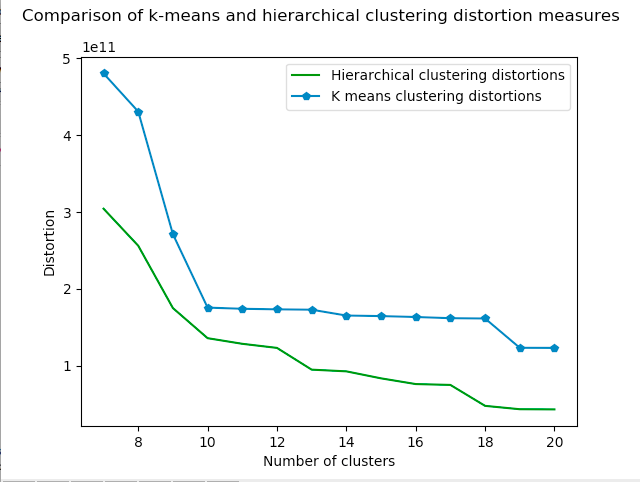
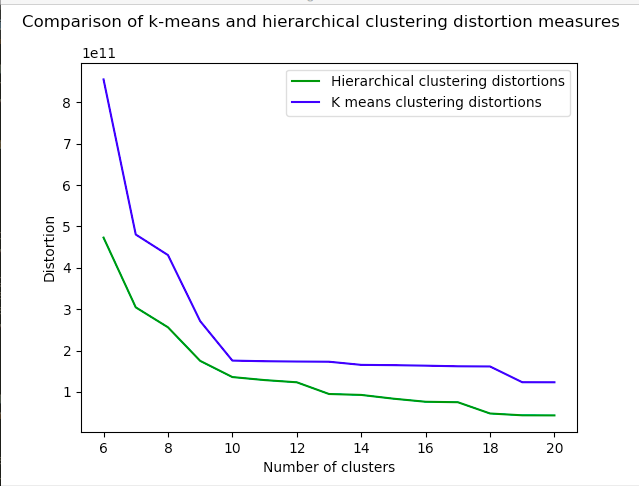
Fix clustering alg comparison graphs

diff --git a/week_2_app.py b/week_2_app.py
@@ -1,0 +1,297 @@
+'''
+APPLICATION 3: Efficiency of hierarchical clustering and k-means clustering
+'''
+
+import urllib2
+import random
+import time
+import math
+import matplotlib.pyplot as plt
+import week_2_project as provided
+import clusterclass as alg_cluster
+
+DIRECTORY = "http://commondatastorage.googleapis.com/codeskulptor-assets/"
+DATA_3108_URL = DIRECTORY + "data_clustering/unifiedCancerData_3108.csv"
+DATA_896_URL = DIRECTORY + "data_clustering/unifiedCancerData_896.csv"
+DATA_290_URL = DIRECTORY + "data_clustering/unifiedCancerData_290.csv"
+DATA_111_URL = DIRECTORY + "data_clustering/unifiedCancerData_111.csv"
+
+def load_data_table(data_url):
+    """
+    Import a table of county-based cancer risk data
+    from a csv format file
+    """
+    data_file = urllib2.urlopen(data_url)
+    data = data_file.read()
+    data_lines = data.split('\n')
+    data_tokens = [line.split(',') for line in data_lines]
+    return [[tokens[0], float(tokens[1]), float(tokens[2]), int(tokens[3]), float(tokens[4])] 
+            for tokens in data_tokens]
+
+def gen_random_clusters(num_clusters):
+  cluster_list = []
+
+  for dummy_idx in range(0, num_clusters):
+    random_zip = random.randrange(10000, 99999)
+    random_pop = random.randrange(0, 100000)
+    random_issue = random.randrange(0, 130)
+    random_x_dir = random.choice([-1, 1])
+    random_y_dir = random.choice([-1, 1])
+    random_x = random.random() * random_x_dir
+    random_y = random.random() * random_y_dir
+    new_cluster = alg_cluster.Cluster(set([random_zip]), random_x, random_y, random_pop, random_issue)
+    cluster_list.append(new_cluster)
+
+  return cluster_list
+
+def get_slow_cp_run_time(cluster_list):
+  t0 = time.time()
+  provided.slow_closest_pair(cluster_list)
+  t1 = time.time()
+  return t1 - t0
+
+
+def get_fast_cp_run_time(cluster_list):
+  t0 = time.time()
+  provided.fast_closest_pair(cluster_list)
+  t1 = time.time()
+  return t1 - t0
+
+def plot_cp_running_times():
+
+  number_clusters = []
+  slow_run_times = []
+  fast_run_times = []
+  for i in range(2, 200, 1):
+    number_clusters.append(i)
+    test_clusters = gen_random_clusters(i)
+    slow_run_times.append(get_slow_cp_run_time(test_clusters))
+    fast_run_times.append(get_fast_cp_run_time(test_clusters))
+
+  print slow_run_times
+  print fast_run_times
+  plt.plot(number_clusters, slow_run_times, '-r', label = "Slow closest pair run time")
+  plt.plot(number_clusters, fast_run_times, '-b', label = "Fast closest pair run time")
+  plt.xlabel('Number of clusters')
+  plt.ylabel('Running time (seconds)')
+  plt.suptitle('Comparing slow and fast closest pair run times')
+  plt.legend(loc = 'upper right')
+  plt.show()
+
+
+
+def compute_distortion(cluster_list, data_url):
+
+  data_table = load_data_table(data_url)
+  distortion = 0
+
+  for cluster in cluster_list:
+    distortion += cluster.cluster_error(data_table)
+
+  return distortion
+
+def initialize_cluster_list(data_url):
+  data_table = load_data_table(data_url)
+
+  singleton_list = []
+  for line in data_table:
+    singleton_list.append(alg_cluster.Cluster(set([line[0]]), line[1], line[2], line[3], line[4]))
+
+  return singleton_list
+
+def plot_clustering_algs_distortion(data_url):
+
+  number_clusters = []
+  hierarchical_distortions = []
+  k_means_distortions = []
+
+  hierarchical_cluster_list = initialize_cluster_list(data_url)
+
+  for cluster_number in range(20, 5, -1):
+    number_clusters.append(cluster_number)
+    hierarchical_cluster_list = provided.hierarchical_clustering(hierarchical_cluster_list, cluster_number)
+    hierarchical_distortion = compute_distortion(hierarchical_cluster_list, data_url)
+    hierarchical_distortions.append(hierarchical_distortion)
+
+    k_means_cluster_list = initialize_cluster_list(data_url)
+    k_means_cluster_list = provided.kmeans_clustering(k_means_cluster_list, cluster_number, 5)
+    k_means_distortion = compute_distortion(k_means_cluster_list, data_url)
+    k_means_distortions.append(k_means_distortion)
+
+  plt.plot(number_clusters, hierarchical_distortions, '-g', label = "Hierarchical clustering distortions")
+  plt.plot(number_clusters, k_means_distortions, '-b', label = "K means clustering distortions")
+  plt.xlabel('Number of clusters')
+  plt.ylabel('Distortion')
+  plt.suptitle('Comparison of k-means and hierarchical clustering distortion measures')
+  plt.legend(loc = 'upper right')
+  plt.show()
+
+
+
+
+
+'''
+QUESTION 1:
+
+Write a function gen_random_clusters(num_clusters) that creates a list of 
+clusters where each cluster in this list corresponds to one randomly generated point in the
+square with corners (+/- 1, +/- 1). Use this function and your favorite Python timing code to
+compute the running times of the functions slow_closest_pair and fast_closest_pair for lists 
+of clusters of size 2 to 200
+
+Plot the result as two curves combined into a single plot.
+x-axis: number of initial clusters
+y-axis: running time of function in seconds
+
+
+'''
+#uncomment below to plot cp running time comparison
+#plot_cp_running_times()
+
+
+'''
+QUESTION 2:
+
+Use alg_project3_viz to create an image of the 15 clusters generated by applying hierarchical
+clustering to the 3108 cancer risk data set. You may submit an image with the 3108 counties
+colored by clusters or an enhanced visualization with the original counties colored by cluster
+and linked to the center of their corresponding clusters by lines.
+'''
+
+'''
+QUESTION 3:
+
+Use alg_project3_viz to create an image of the 15 clusters generated by applying k means
+clustering to the 3108 cancer risk data set using 5 iterations. You may submit an image with the 3108 counties
+colored by clusters or an enhanced visualization with the original counties colored by cluster
+and linked to the center of their corresponding clusters by lines.
+'''
+
+'''
+QUESTION 4:
+Which clustering method is faster when the number of output clusters is either a small fixed number
+or a small fraction of the number of input clusters? Provide a short explanation in terms of the asymptotic 
+running times of both methods. 
+
+K-means clustering is much faster when the number of clusters is a small fraction of the number
+of input clusters. The running time here should be O(k * n) where n is the cluster
+list length, and which if k is much smaller than n, should reduce to O(n).
+This is because for k-means clustering, as long as the number of iterations stays small, the
+number of distance comparisons between clusters is much lower since the centers are predetermined. 
+
+Hierarchical clustering, on the other hand performs fast closest pair a number of times equal to the initial 
+size of the input list minus the desired number of output clusters, which results in O((n - k)n log n),
+which will be considerably higher than O(n).
+'''
+
+'''
+QUESTION 5:
+
+Use alg_project3_viz to create an image of the 9 clusters generated by applying
+hierarchical clustering to the 111 county cancer risk data set.
+'''
+
+'''
+QUESTION 6:
+
+Use alg_project3_viz to create an image of the 9 clusters generated by applying
+5 iterations of k-means clustering to the 111 county cancer risk data set.
+
+'''
+
+'''
+QUESTION 7:
+
+Write a function compute_distortion(cluster_list) that takes a list of clusters and uses cluster_error
+to compute its distortion. Then, use compute_distortion to compute the distortions of the two 
+clusterings in questions 5 and 6.
+
+'''
+
+#Uncomment below to see the answer to question 7.
+
+#initialize cluster list
+
+
+
+#Run tests provided by instructor
+#data_url = DATA_290_URL
+#cluster_list = initialize_cluster_list(data_url)
+#hierarchical_cluster_list = provided.hierarchical_clustering(cluster_list, 16)
+#print 'error for hierarchical', compute_distortion(hierarchical_cluster_list, data_url)
+#cluster_list = initialize_cluster_list(data_url)
+#k_means_cluster_list = provided.kmeans_clustering(cluster_list, 16, 5)
+#print 'error for k means', compute_distortion(k_means_cluster_list, data_url)
+
+#Get values required for problem: 9 clusters for 111 county data set, 5 iterations for kmeans
+
+#data_url = DATA_111_URL
+#cluster_list = initialize_cluster_list(data_url)
+#hierarchical_cluster_list = provided.hierarchical_clustering(cluster_list, 9)
+#print 'error for hierarchical', compute_distortion(hierarchical_cluster_list, data_url)
+#cluster_list = initialize_cluster_list(data_url)
+#k_means_cluster_list = provided.kmeans_clustering(cluster_list, 9, 5)
+#print 'error for k means', compute_distortion(k_means_cluster_list, data_url)
+
+#***********ANSWER**************
+#Error for hierarchical: 1.7516E11
+#Error for kmeans: 2.7125E11
+
+'''
+QUESTION 8:
+Examine the clusterings generated in questions 5 and 6, focusing on west coast.
+
+Describe the difference between the shapes produced by these two methods. What caused
+one method to produce a clustering with much higher distortion?
+
+ANSWER: K-means clustering will result in a bias since clusters are initialized in the most populated
+cities. Three of these cities happen to be in California and are all relatively close to each other.
+Because we initialized very few clusters to distribute, many counties will end up without a cluster center
+anywhere near them due to this bias, resulting in high error.
+
+Hierarchical clustering doesn't have this bias, since with every cluster merge, all possible distances
+are tested to find the closest pair, regardless of population.
+'''
+
+'''
+QUESTION 9:
+Based on your answer to Question 8, which method requires less human supervision to produce 
+clusterings with relatively low distortion?
+
+ANSWER: Hierarchical clustering doesn't have the population bias, so K-means clustering would require more
+human supervision for the centers initialization. To prevent this bias during k-means clustering 
+initialization, when counties are chosen, human supervision could be used to distribute the initialized 
+clusters more evenly location-wise to mitigate the location bias resulting in high distortion.
+'''
+
+'''
+QUESTION 10:
+Compute the distortion of the list of clusters produced by hierarchical clustering and 
+k-means clustering(using 5 itereations) on the 111, 290 and 896 county data sets where the # of output clusters
+ranges from 6 to 20.
+
+Create three plots that compare the distortion of the clusterings produced by both methods.
+Each plot should include two curves drawn as line plots.
+X-axis: number of output clusters
+Y-axis: distortion
+'''
+
+#Uncomment below to see the plots for the 111, 290 or 896 county data sets.
+
+#plot_clustering_algs_distortion(DATA_111_URL)
+#plot_clustering_algs_distortion(DATA_290_URL)
+#plot_clustering_algs_distortion(DATA_896_URL)
+
+'''
+QUESTION 11:
+For each data set (111, 290, and 896 counties), does one clustering method consistently 
+produce lower distortion clusterings when the number of output clusters is in the range 6 to 20? 
+Is so, indicate on which data set(s) one method is superior to the other.
+
+ANSWER: As the number of data points goes up, there is less of a difference between algorithms as far as 
+cluster distortion. Given a higher number of data points, k-means may be preferable due to lower run time,
+but with lower sample sizes, hierarchical distortion would be preferred preferred due to better accuracy.
+For the 111 county data set, the k-means clustering produces far higher distortion 
+than hierarchical clustering. For the 290 county data set this difference still exists, but is less notable.
+'''
+
